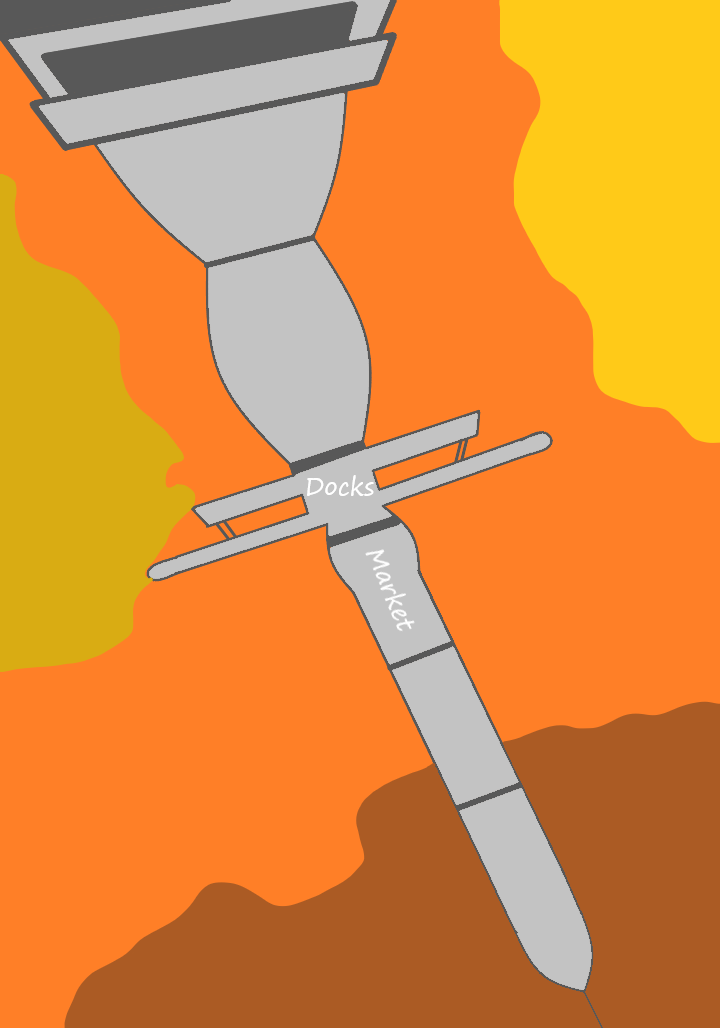
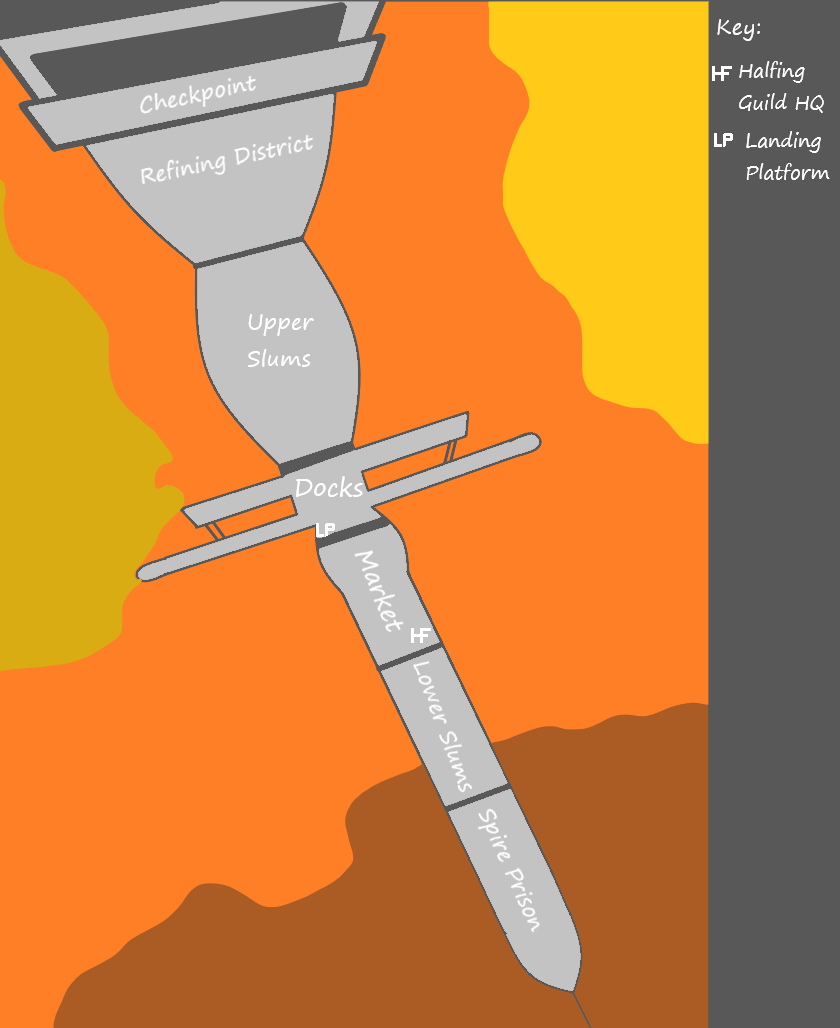
Session 12 Prep

diff --git a/Quest Free Tyler.md b/Quest Free Tyler.md
@@ -1,0 +1,23 @@
+# Quest: Free Tyler
+
+To free tyler from his imprisonment the players will need 10000 nat 20s or actually follow a quest route:
+
+To find out where tyler is they will need to get that information somehow. Other ways I will BS but these are the planned ways:
+
+Help from the Halfing Guild:
+The players can approach the halflings for help. They will sound reluctant to help you but they say if you can free one of their members from the Gangsters they will see what they can do.
+
+After this mission they will be able to locate him: 
+Prison. The Prison on the bottom of the Station.
+
+Help from the Gangsters:
+Using Bryson's connection to them they can request assistance from the Gangsters. If you steal from the Halflings they can use their contacts to find him.
+
+After this mission they will be able to locate him: 
+Prison. The Prison on the bottom of the Station.
+
+Miners:
+The Miners have alot of reason to hate the VC. With little convincing they will want to help you. They will get out fake id cards to get past the checkpoint.
+
+Chruch: Unwilling
+VC: Will arrest you if you try.

diff --git a/Places/Part Two/VIOC/Station Center/The Precinct.md b/Places/Part Two/VIOC/Station Center/The Precinct.md
@@ -1,2 +1,6 @@
 You were taken to a Police Precinct(fancy word for station). The entrance was nothing glamorous, however there were quite a few officers and defenses around the entrance.
 The Precinct contains offices, overnight jail cells, and interrogation rooms.
+
+The Precinct is a large police station close to the Station Center. The Entrance isn't glamorous, however several officers and defenses are around the entrance.
+Inside the station is a labrynth of adminstrative offices that officers navigate with ease. Further back in the Station contains their overnight jail cells and nearby interrogation rooms.
+Inside a secure room is the armory, which contains batons, riot shields, weapons, etc.

diff --git a/Session Summaries/Recaps/Session12.md b/Session Summaries/Recaps/Session12.md
@@ -1,0 +1,6 @@
+# Session 12:
+
+After some exploration of the Venus I Major Orbital Colony, one of your party members was arrested!
+Following this discovery you also learned that your ship was impounded!
+
+After these revelations you guys decided to lay low for a few days and now you must rescue him.

diff --git a/Characters/Difficulty.md b/Characters/Difficulty.md
@@ -6,8 +6,8 @@ Difficulty 3: 9 Health
 Difficulty 4: 12 Health
 
 Average Health of LVL2
-Players = 
-D1:
-D2:
-D3:
-D4:
+Players = 19.8
+D1: 5
+D2: 10
+D3: 15
+D4: 20

diff --git a/Places/Part Two/VIOC/Station Center/Courtroom.md b/Places/Part Two/VIOC/Station Center/Courtroom.md
@@ -1,0 +1,2 @@
+The Courtroom is a small building nearby to the Precinct where unfair court trails are held.
+Almost everything is an excuse to jail you here.
